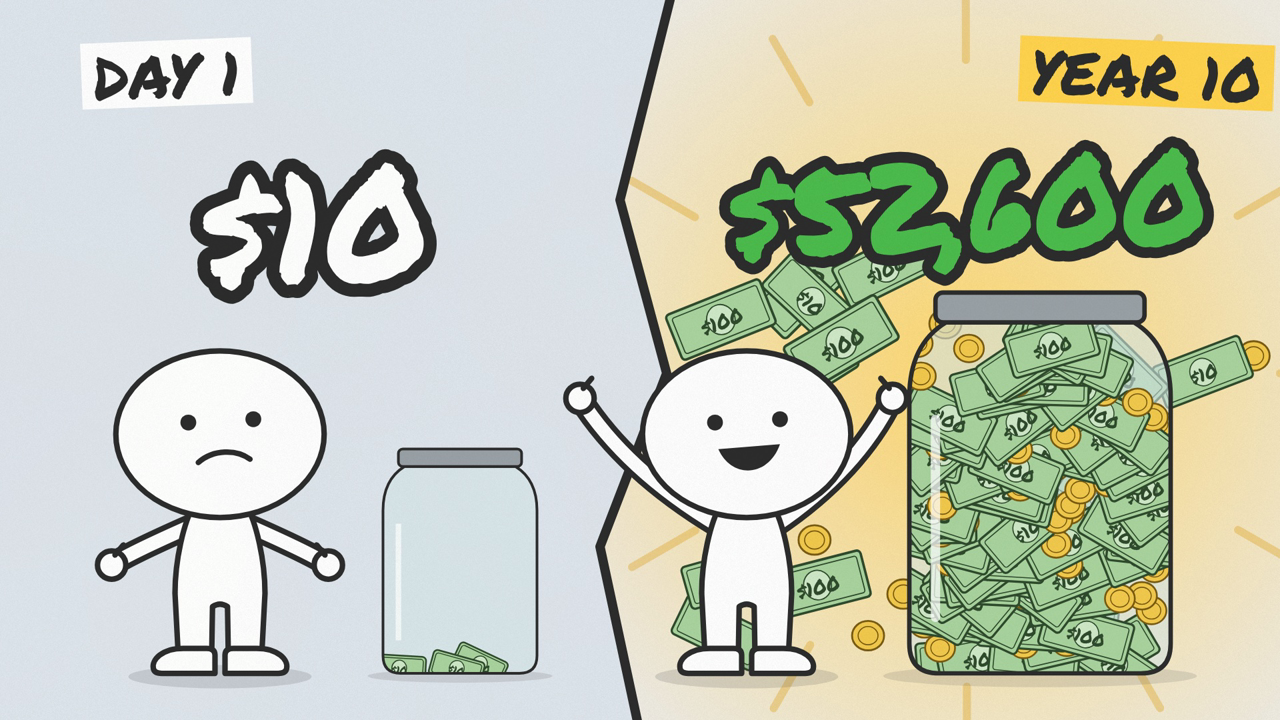
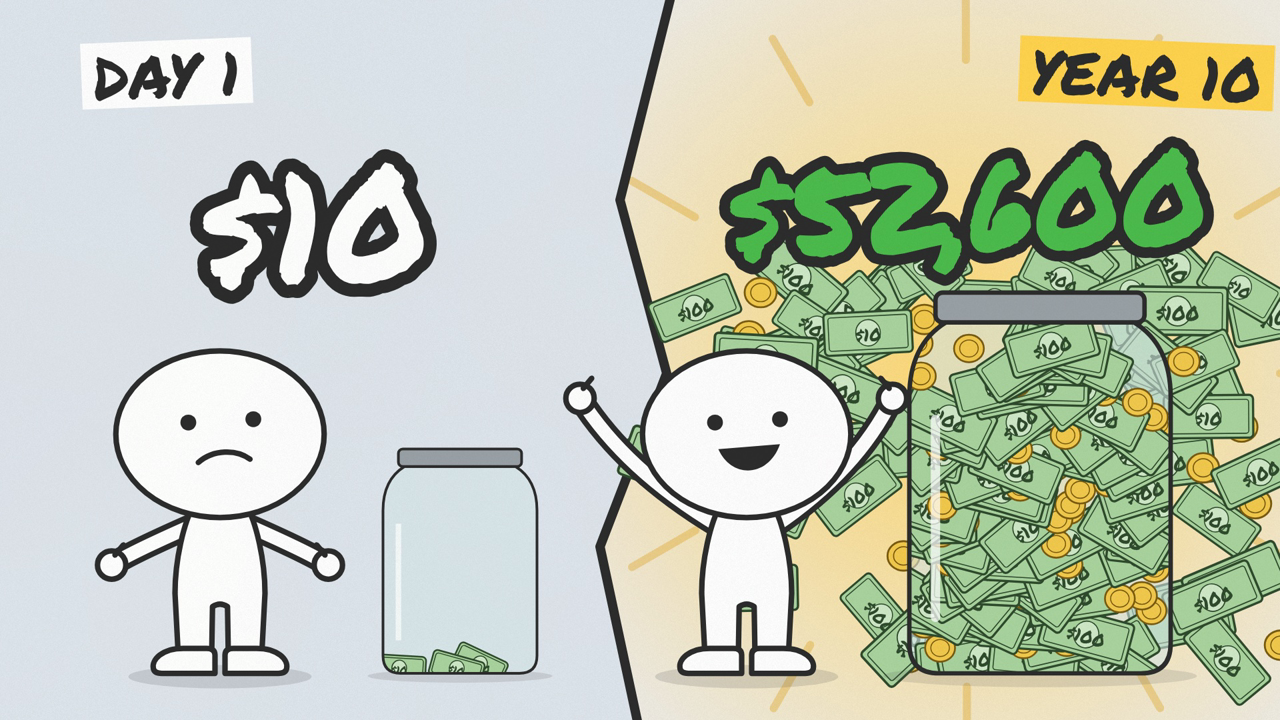
Thumbnail v2: more money falling behind the jar
Claude-Session: https://claude.ai/code/session_01CCRcMHemQpkaWMfydJeSWZ

diff --git a/anim/scenes/thumb_money01_v2.js b/anim/scenes/thumb_money01_v2.js
@@ -17,6 +17,9 @@ function render(t) {
   // right: year 10 with money rain
   // money rain behind the hero and the jar (drawn first, so they cover it)
   const r = rng(5);
+  // extra money behind the jar (around its edges and above the lid)
+  for (let k = 0; k < 34; k++) { const side = k % 2 ? 1 : -1, x = 1560 + side * (150 + r() * 230), y = 380 + r() * 620; if (k % 5 === 0) coin(x, y, 24); else bill(x, y, 120 + r() * 40, (r() - 0.5) * 1.8, r() < 0.5 ? '$100' : '$10'); }
+  for (let k = 0; k < 8; k++) { const x = 1380 + r() * 360, y = 390 + r() * 70; bill(x, y, 120, (r() - 0.5) * 1.8, '$100'); }
   for (let k = 0; k < 26; k++) { const x = 1010 + r() * 890, y = 400 + r() * 560; if (k % 4 === 0) coin(x, y, 24); else bill(x, y, 120 + r() * 40, (r() - 0.5) * 1.8, r() < 0.5 ? '$100' : '$10'); }
   jar(1560, 1010, 560, 1, 21);
   heroFront(1120, 1010, 1.25, { face: 'grin', armL: [-200, -330], armR: [175, -330] });
